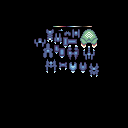
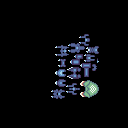
[SOL-151] Add sprite blit for ImageSpawnTool

Changed region(s): [[0.25, 0.1875, 0.7812, 0.7812]]

diff --git a/Assets/SolidSpace/Scripts/Playground/Tools/ImageSpawn/Controllers/ImageSpawnTool.cs b/Assets/SolidSpace/Scripts/Playground/Tools/ImageSpawn/Controllers/ImageSpawnTool.cs
@@ -1,5 +1,6 @@
 using System;
 using System.IO;
+using SolidSpace.Entities.Atlases;
 using SolidSpace.Entities.Components;
 using SolidSpace.Entities.Health;
 using SolidSpace.Entities.Rendering.Sprites;
@@ -31,7 +32,6 @@ namespace SolidSpace.Playground.Tools.ImageSpawn
         private readonly ISpriteColorSystem _spriteSystem;
         private readonly IHealthAtlasSystem _healthSystem;
         private readonly IEntityManager _entityManager;
-        private readonly IProfilingManager _profilingManager;
 
         private IToolWindow _window;
         private IStringField _pathField;
@@ -105,7 +105,10 @@ namespace SolidSpace.Playground.Tools.ImageSpawn
             }
 
             var pixels = new NativeArray<Color32>(texture.GetPixels32(), Allocator.TempJob);
-            var frameArray = ConvertToBitArray(pixels, texture.width, texture.height);
+            _jobMemory.AddAllocation(pixels);
+            
+            var frameArray = FrameBitUtil.ConvertToBitArray(pixels, texture.width, texture.height);
+            _jobMemory.AddAllocation(frameArray);
 
             var seedJob = new ShapeSeedJob
             {
@@ -143,6 +146,9 @@ namespace SolidSpace.Playground.Tools.ImageSpawn
             var handles = _jobMemory.CreateNativeArray<JobHandle>(shapeCount * 2);
             var handleCount = 0;
             
+            var spriteSystemTextureSize = new int2(_spriteSystem.Texture.width, _spriteSystem.Texture.height);
+            var spriteSystemTexturePtr = _spriteSystem.Texture.GetRawTextureData<ColorRGB24>();
+            
             for (var i = 0; i < shapeCount; i++)
             {
                 var bounds = readJob.inOutBounds[i];
@@ -160,9 +166,26 @@ namespace SolidSpace.Playground.Tools.ImageSpawn
                 var posY = (bounds.max.y + bounds.min.y) / 2f - texture.height * 0.5f + _pointer.Position.y;
 
                 SpawnEntity(new float2(posX, posY), new float2(width, height), spriteIndex, healthIndex);
+
+                var spriteOffset = AtlasMath.ComputeOffset(_spriteSystem.Chunks[spriteIndex.chunkId], spriteIndex);
+                
+                handles[handleCount++] = new BlitShapeSpriteJob
+                {
+                    inConnections = seedJob.outConnections,
+                    inConnectionCount = seedJob.outConnectionCount.Value,
+                    inSourceOffset = new int2(bounds.min.x, bounds.min.y),
+                    inBlitSize = new int2(width, height),
+                    inSourceSize = new int2(texture.width, texture.height),
+                    inSourceTexture = pixels,
+                    inTargetOffset = spriteOffset,
+                    inTargetSize = spriteSystemTextureSize,
+                    inBlitShapeSeed = readJob.outShapeRootSeeds[i],
+                    outTargetTexture = spriteSystemTexturePtr,
+                    inSourceSeedMask = seedJob.outSeedMask
+                }.Schedule();
             }
 
-            pixels.Dispose();
+            JobHandle.CombineDependencies(new NativeSlice<JobHandle>(handles, 0, handleCount)).Complete();
         }
 
         private void SpawnEntity(float2 position, float2 size, AtlasIndex spriteIndex, AtlasIndex healthIndex)
@@ -204,7 +227,7 @@ namespace SolidSpace.Playground.Tools.ImageSpawn
                 Debug.LogError($"File '{path}' does not exist");
                 return false;
             }
-            
+
             var bytes = File.ReadAllBytes(path);
             texture = new Texture2D(1, 1, TextureFormat.RGBA32, false);
             Object.Destroy(texture);
@@ -217,34 +240,6 @@ namespace SolidSpace.Playground.Tools.ImageSpawn
             Debug.LogError("Failed to load image into texture");
 
             return false;
-        }
-        
-        private NativeArray<byte> ConvertToBitArray(NativeArray<Color32> pixels, int textureWidth, int textureHeight)
-        {
-            var bytesPerLine = (int) Math.Ceiling(textureWidth / 8f);
-            var bits = _jobMemory.CreateNativeArray<byte>(bytesPerLine * textureHeight);
-
-            for (var y = 0; y < textureHeight; y++)
-            {
-                var textureOffset = textureWidth * y;
-                var bitsOffset = bytesPerLine * y;
-                
-                for (var x = 0; x < textureWidth; x += 8)
-                {
-                    var value = 0;
-
-                    for (var j = 0; j < 8 && (x + j < textureWidth); j++)
-                    {
-                        var color = pixels[textureOffset + x + j];
-                        var colorSum = Math.Min(1, color.r + color.g + color.b);
-                        value |= colorSum << j;
-                    }
-
-                    bits[bitsOffset + x / 8] = (byte) value;
-                }
-            }
-
-            return bits;
         }
 
         public void OnActivate(bool isActive)

diff --git a/Assets/SolidSpace/Scripts/Playground/Tools/ImageSpawn/Jobs/BlitShapeSpriteJob.cs b/Assets/SolidSpace/Scripts/Playground/Tools/ImageSpawn/Jobs/BlitShapeSpriteJob.cs
@@ -1,0 +1,80 @@
+using System;
+using System.Runtime.CompilerServices;
+using SolidSpace.Entities.Splitting;
+using SolidSpace.Mathematics;
+using Unity.Burst;
+using Unity.Collections;
+using Unity.Collections.LowLevel.Unsafe;
+using Unity.Jobs;
+using Unity.Mathematics;
+using UnityEngine;
+
+namespace SolidSpace.Playground.Tools.ImageSpawn
+{
+    [BurstCompile]
+    public struct BlitShapeSpriteJob : IJob
+    {
+        [ReadOnly] public NativeSlice<byte> inSourceSeedMask;
+        [ReadOnly] public NativeSlice<Color32> inSourceTexture;
+        [ReadOnly] public int2 inSourceSize;
+        [ReadOnly] public int2 inSourceOffset;
+        [ReadOnly] public int2 inTargetSize;
+        [ReadOnly] public int2 inTargetOffset;
+        
+        [ReadOnly] public byte inBlitShapeSeed;
+        [ReadOnly] public int2 inBlitSize;
+        
+        [ReadOnly] public int inConnectionCount;
+        [ReadOnly] public NativeSlice<byte2> inConnections;
+
+        private Mask256 _shapeMask;
+
+        [WriteOnly, NativeDisableContainerSafetyRestriction] public NativeArray<ColorRGB24> outTargetTexture;
+        
+        public void Execute()
+        {
+            var sourceOffset = inSourceOffset.y * inSourceSize.x + inSourceOffset.x;
+            var targetOffset = inTargetOffset.y * inTargetSize.x + inTargetOffset.x;
+            
+            _shapeMask.SetBitTrue((byte) (inBlitShapeSeed - 1));
+            for (var i = 0; i < inConnectionCount; i++)
+            {
+                var connection = inConnections[i];
+                if (inBlitShapeSeed == connection.x)
+                {
+                    _shapeMask.SetBitTrue((byte) (connection.y - 1));
+                }
+            }
+            
+            for (var y = 0; y < inBlitSize.y; y++)
+            {
+                for (var x = 0; x < inBlitSize.x; x++)
+                {
+                    var maskColor = inSourceSeedMask[sourceOffset + x];
+                    if (maskColor == 0 || !_shapeMask.HasBit((byte) (maskColor - 1)))
+                    {
+                        outTargetTexture[targetOffset + x] = default;
+                        continue;
+                    }
+                    
+                    var sourceColor = inSourceTexture[sourceOffset + x];
+                    outTargetTexture[targetOffset + x] = new ColorRGB24
+                    {
+                        r = GammaToLinear(sourceColor.r),
+                        g = GammaToLinear(sourceColor.g),
+                        b = GammaToLinear(sourceColor.b)
+                    };
+                }
+
+                sourceOffset += inSourceSize.x;
+                targetOffset += inTargetSize.x;
+            }
+        }
+
+        [MethodImpl(MethodImplOptions.AggressiveInlining)]
+        private static byte GammaToLinear(byte color)
+        {
+            return (byte) (Math.Pow(color / 255f, 2.2f) * 255);
+        }
+    }
+}

diff --git a/Assets/SolidSpace/Scripts/Entities/Splitting/Editor/ShapeFillWindow.cs b/Assets/SolidSpace/Scripts/Entities/Splitting/Editor/ShapeFillWindow.cs
@@ -64,7 +64,11 @@ namespace SolidSpace.Entities.Splitting.Editor
             ConsoleUtil.ClearLog();
             
             TimerBegin();
-            var textureBits = ConvertToBitArray(_inputTexture);
+            var pixels = new NativeArray<Color32>(_inputTexture.GetPixels32(), Allocator.TempJob);
+            _jobMemory.AddAllocation(pixels);
+            
+            var frameBits = FrameBitUtil.ConvertToBitArray(pixels, _inputTexture.width, _inputTexture.height);
+            _jobMemory.AddAllocation(frameBits);
             TimerEnd("Convert to bit array");
 
             var textureWidth = _inputTexture.width;
@@ -72,7 +76,7 @@ namespace SolidSpace.Entities.Splitting.Editor
             
             var seedJob = new ShapeSeedJob
             {
-                inFrameBits = textureBits,
+                inFrameBits = frameBits,
                 inFrameSize = new int2(textureWidth, textureHeight),
                 outResultCode = _jobMemory.CreateNativeReference<EShapeSeedResult>(),
                 outConnections = _jobMemory.CreateNativeArray<byte2>(256),
@@ -143,37 +147,6 @@ namespace SolidSpace.Entities.Splitting.Editor
             File.WriteAllBytes(_outputTexturePath, exportTexture.EncodeToPNG());
 
             DestroyImmediate(exportTexture);
-        }
-
-        private NativeArray<byte> ConvertToBitArray(Texture2D texture)
-        {
-            var textureHeight = texture.height;
-            var textureWidth = texture.width;
-            var bytesPerLine = (int) Math.Ceiling(textureWidth / 8f);
-            var textureRaw = texture.GetRawTextureData<ColorRGB24>();
-            var bits = _jobMemory.CreateNativeArray<byte>(bytesPerLine * textureHeight);
-
-            for (var y = 0; y < textureHeight; y++)
-            {
-                var textureOffset = textureWidth * y;
-                var bitsOffset = bytesPerLine * y;
-                
-                for (var x = 0; x < textureWidth; x += 8)
-                {
-                    var value = 0;
-
-                    for (var j = 0; j < 8 && (x + j < textureWidth); j++)
-                    {
-                        var color = textureRaw[textureOffset + x + j];
-                        var colorSum = Math.Min(1, color.r + color.g + color.b);
-                        value |= colorSum << j;
-                    }
-
-                    bits[bitsOffset + x / 8] = (byte) value;
-                }
-            }
-
-            return bits;
         }
     }
 }

diff --git a/Assets/SolidSpace/Scripts/Entities/Splitting/Controllers/FrameBitUtil.cs b/Assets/SolidSpace/Scripts/Entities/Splitting/Controllers/FrameBitUtil.cs
@@ -1,0 +1,38 @@
+using System;
+using SolidSpace.JobUtilities;
+using Unity.Collections;
+using UnityEngine;
+
+namespace SolidSpace.Entities.Splitting
+{
+    public static class FrameBitUtil
+    {
+        public static NativeArray<byte> ConvertToBitArray(NativeArray<Color32> texture, int width, int height)
+        {
+            var bytesPerLine = (int) Math.Ceiling(width / 8f);
+            var bits = NativeMemory.CreateTempJobArray<byte>(bytesPerLine * height);
+            
+            for (var y = 0; y < height; y++)
+            {
+                var textureOffset = width * y;
+                var bitsOffset = bytesPerLine * y;
+                
+                for (var x = 0; x < width; x += 8)
+                {
+                    var value = 0;
+
+                    for (var j = 0; j < 8 && (x + j < width); j++)
+                    {
+                        var color = texture[textureOffset + x + j];
+                        var colorSum = Math.Min(1, color.r + color.g + color.b);
+                        value |= colorSum << j;
+                    }
+
+                    bits[bitsOffset + x / 8] = (byte) value;
+                }
+            }
+
+            return bits;
+        }
+    }
+}

diff --git a/Assets/SolidSpace/Scripts/Entities/Splitting/Jobs/ShapeReadJob.cs b/Assets/SolidSpace/Scripts/Entities/Splitting/Jobs/ShapeReadJob.cs
@@ -44,16 +44,15 @@ namespace SolidSpace.Entities.Splitting
                     }
 
                     var connection = inConnections[connectionIndex];
-                    IntMath.MinMax(connection.x, connection.y, out var seedMin, out var seedMax);
-                    if (seedMin != seed)
+                    if (connection.x != seed)
                     {
                         continue;
                     }
                     
                     _connectionUsageMask.SetBitTrue((byte) connectionIndex);
-                    _seedUsageMask.SetBitTrue((byte) (seedMax - 1));
+                    _seedUsageMask.SetBitTrue((byte) (connection.y - 1));
 
-                    shapeBounds = JoinBounds(shapeBounds, inOutBounds[seedMax]);
+                    shapeBounds = JoinBounds(shapeBounds, inOutBounds[connection.y]);
                 }
 
                 inOutBounds[shapeCount++] = shapeBounds;

diff --git a/Assets/SolidSpace/Scripts/Entities/Splitting/Jobs/ShapeSeedJob.cs b/Assets/SolidSpace/Scripts/Entities/Splitting/Jobs/ShapeSeedJob.cs
@@ -147,7 +147,8 @@ namespace SolidSpace.Entities.Splitting
                             return default;
                         }
                         
-                        outConnections[_connectionCount++] = new byte2(shapeId, lastCreatedLineId);
+                        IntMath.MinMax(shapeId, lastCreatedLineId, out var minSeed, out var maxSeed);
+                        outConnections[_connectionCount++] = new byte2(minSeed, maxSeed);
                     }
 
                     i++;

diff --git a/Assets/SolidSpace/Scripts/JobUtilities/Runtime/Controllers/JobMemoryAllocator.cs b/Assets/SolidSpace/Scripts/JobUtilities/Runtime/Controllers/JobMemoryAllocator.cs
@@ -13,6 +13,11 @@ namespace SolidSpace.JobUtilities
             _allocations = new List<IDisposable>();
         }
 
+        public void AddAllocation(IDisposable disposable)
+        {
+            _allocations.Add(disposable);
+        }
+
         public NativeArray<T> CreateNativeArray<T>(int length) where T : unmanaged
         {
             var array = new NativeArray<T>(length, Allocator.TempJob, NativeArrayOptions.UninitializedMemory);

diff --git a/Assets/SolidSpace/Scripts/Playground/Tools/ShipSpawn/Controllers/ShipSpawnTool.cs b/Assets/SolidSpace/Scripts/Playground/Tools/ShipSpawn/Controllers/ShipSpawnTool.cs
@@ -138,7 +138,7 @@ namespace SolidSpace.Playground.Tools.ShipSpawn
             {
                 index = healthIndex
             });
-            _entityManager.SetComponentData(entity, new ActorComponent()
+            _entityManager.SetComponentData(entity, new ActorComponent
             {
                 isActive = false
             });

diff --git a/Assets/SolidSpace/Scripts/Mathematics/Data/byte2.cs b/Assets/SolidSpace/Scripts/Mathematics/Data/byte2.cs
@@ -12,5 +12,10 @@ namespace SolidSpace.Mathematics
             this.x = (byte) x;
             this.y = (byte) y;
         }
+
+        public override string ToString()
+        {
+            return $"({x}, {y})";
+        }
     }
 }
